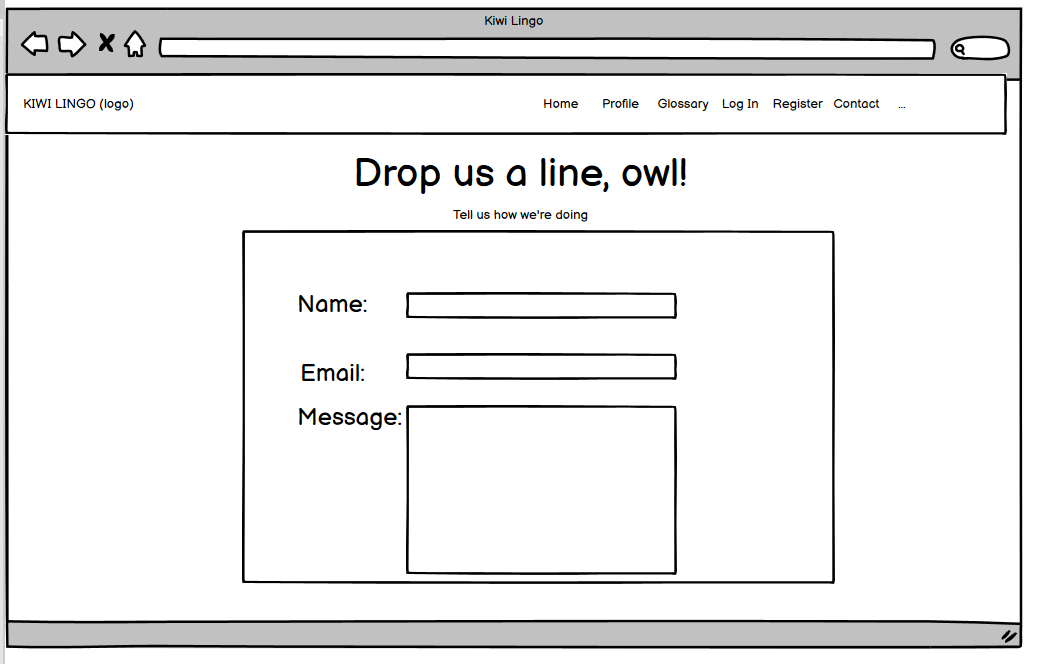
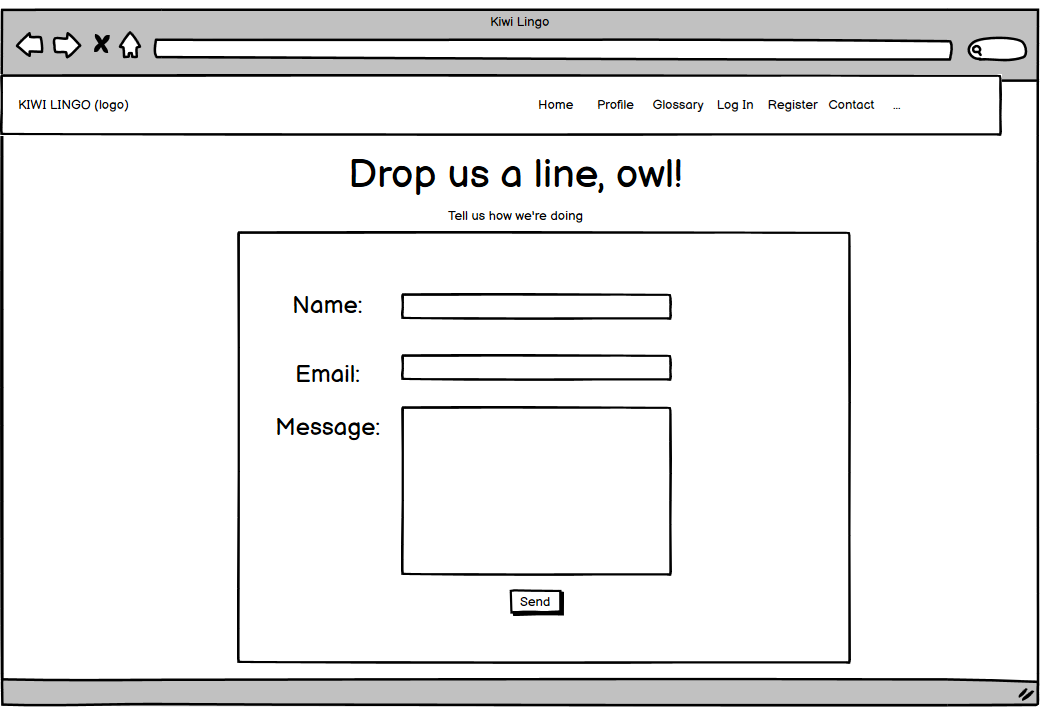
completed wireframes for desktop,mobile & tablet

Changed region(s): [[0.0, 0.0, 1.0, 1.0]]

diff --git a/readme/testing/TESTING.md b/readme/testing/TESTING.md
@@ -1,0 +1,18 @@
+## **Kiwi Lingo: Testing Section**
+
+[back to README.md file](https://github.com/elerel/ms3-kiwi-lingo/blob/master/README.md)
+
+---
+
+## **CONTENTS** ##
+
+- [Manual Testing](#manual-testing)
+- [Automated Testing](#automated-testing)
+    - [Code Validation](#code-validation)
+    - [Accesibility Validation](#accesibility-validation)
+    - [Browser Validation](#browser-validation)
+- [User Testing](#user-testing)
+    - [Peer Testing](#peer-testing)
+    - [User Testing](#user-testing)
+
+---
